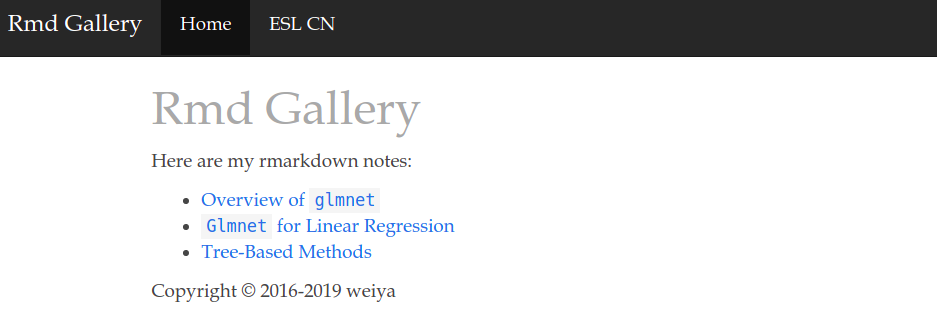
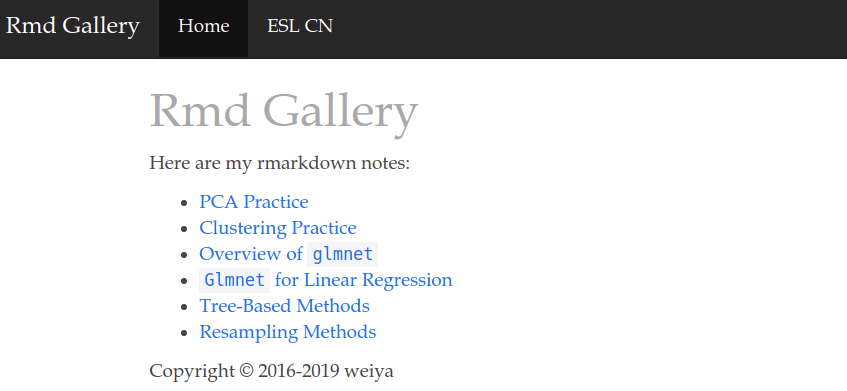
update

diff --git a/rmds/_site/cluster-practice.html b/rmds/_site/cluster-practice.html
@@ -9,9 +9,10 @@
 <meta name="generator" content="pandoc" />
 
 
+<meta name="author" content="weiya" />
 
 
-<title>Rmd Gallery</title>
+<title>Clustering Practice</title>
 
 <script src="site_libs/jquery-1.11.3/jquery.min.js"></script>
 <meta name="viewport" content="width=device-width, initial-scale=1" />
@@ -298,20 +299,71 @@ $(document).ready(function () {
 
 
 
-<h1 class="title toc-ignore">Rmd Gallery</h1>
+<h1 class="title toc-ignore">Clustering Practice</h1>
+<h4 class="author"><em>weiya</em></h4>
+<h4 class="date"><em>March 3, 2019</em></h4>
 
 </div>
 
 
-<p>Here are my rmarkdown notes:</p>
-<ul>
-<li><a href="pca-practice.html">PCA Practice</a></li>
-<li><a href="cluster-practice.html">Clustering Practice</a></li>
-<li><a href="glmnet.html">Overview of <code>glmnet</code></a></li>
-<li><a href="glmnet_linear.html"><code>Glmnet</code> for Linear Regression</a></li>
-<li><a href="tree-based-methods.html">Tree-Based Methods</a></li>
-<li><a href="resampling-methods.html">Resampling Methods</a></li>
-</ul>
+<div id="k-means" class="section level2">
+<h2><span class="math inline">\(K\)</span>-means</h2>
+<div class="figure">
+<img src="images/alg_kmeans.png" />
+
+</div>
+<p>通过一个简单的例子来说明用 <code>kmeans()</code> 进行 <span class="math inline">\(K\)</span>-means 聚类。</p>
+<pre class="r"><code>set.seed(123)
+x = matrix(rnorm(50*2), ncol=2)
+x[1:25, 1] = x[1:25, 1] + 3
+x[1:25, 2] = x[1:25, 2] - 4</code></pre>
+<p>然后进行 <span class="math inline">\(K\)</span>-means 聚类，</p>
+<pre class="r"><code>km.out = kmeans(x, 2, nstart = 20)
+plot(x, col = (km.out$cluster+1), main = &quot;K-means (K=2)&quot;, xlab = &quot;&quot;, ylab = &quot;&quot;, pch = 20, cex = 2)</code></pre>
+<p><img src="cluster-practice_files/figure-html/unnamed-chunk-2-1.png" width="672" /></p>
+<p>其中 <code>nstart</code> 表示随机初始划分的个数。可以比较下 <span class="math inline">\(K=3\)</span> 时 <code>nstart = 1</code> 和 <code>nstart = 20</code> 的差异</p>
+<pre class="r"><code>set.seed(1234)
+km.out = kmeans(x, 3, nstart = 1)
+km.out$tot.withinss</code></pre>
+<pre><code>## [1] 64.24859</code></pre>
+<pre class="r"><code>km.out = kmeans(x, 3, nstart = 20)
+km.out$tot.withinss</code></pre>
+<pre><code>## [1] 62.43309</code></pre>
+</div>
+<div id="hierarchical-clustering" class="section level2">
+<h2>Hierarchical Clustering</h2>
+<div class="figure">
+<img src="images/alg_hclust.png" />
+
+</div>
+<p>可以采用不同的 linkage 进行 <strong>系统聚类 (Hierarchical Clustering)</strong></p>
+<div class="figure">
+<img src="images/tab_hclust_linkage.png" />
+
+</div>
+<pre class="r"><code>hc.complete = hclust(dist(x), method = &quot;complete&quot;)
+hc.average = hclust(dist(x), method = &quot;average&quot;)
+hc.single = hclust(dist(x), method = &quot;single&quot;)</code></pre>
+<p>并且作出 dendrograms.</p>
+<pre class="r"><code>par(mfrow=c(1,3))
+plot(hc.complete, main = &quot;Complete Linkage&quot;, xlab = &quot;&quot;, sub = &quot;&quot;, cex=.9)
+plot(hc.average, main = &quot;Average Linkage&quot;, xlab = &quot;&quot;, sub = &quot;&quot;, cex=.9)
+plot(hc.single, main = &quot;Single Linkage&quot;, xlab = &quot;&quot;, sub = &quot;&quot;, cex=.9)</code></pre>
+<p><img src="cluster-practice_files/figure-html/unnamed-chunk-5-1.png" width="672" /></p>
+<p>为了确定分类结果，可以用 <code>cutree()</code> 返回类别标签，</p>
+<pre class="r"><code>cutree(hc.complete, 2)</code></pre>
+<pre><code>##  [1] 1 1 1 1 1 1 1 1 1 1 1 1 1 1 1 1 1 1 1 1 1 1 1 1 1 2 2 2 2 2 2 2 2 2 2
+## [36] 2 2 2 2 2 2 2 2 1 2 2 2 2 2 2</code></pre>
+<p>当使用基于相关系数的距离度量时，可以采用 <code>as.dist()</code> 函数，比如</p>
+<pre class="r"><code>x = matrix(rnorm(30*3), ncol = 3)
+dd = as.dist(1-cor(t(x)))
+plot(hclust(dd, method=&quot;complete&quot;), main = &quot;Complete Linkage with Correlation-Based Distance&quot;, xlab = &quot;&quot;, sub = &quot;&quot;)</code></pre>
+<p><img src="cluster-practice_files/figure-html/unnamed-chunk-7-1.png" width="672" /></p>
+</div>
+<div id="references" class="section level2">
+<h2>References</h2>
+<p><a href="https://www-bcf.usc.edu/~gareth/ISL/ISLR%20First%20Printing.pdf">James, G., Witten, D., Hastie, T., &amp; Tibshirani, R. (Eds.). (2013). An introduction to statistical learning: with applications in R. New York: Springer.</a></p>
+</div>
 
 <p>Copyright &copy; 2016-2019 weiya</p>
 
